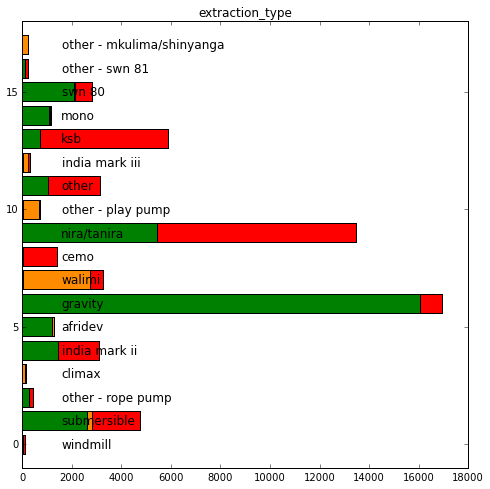
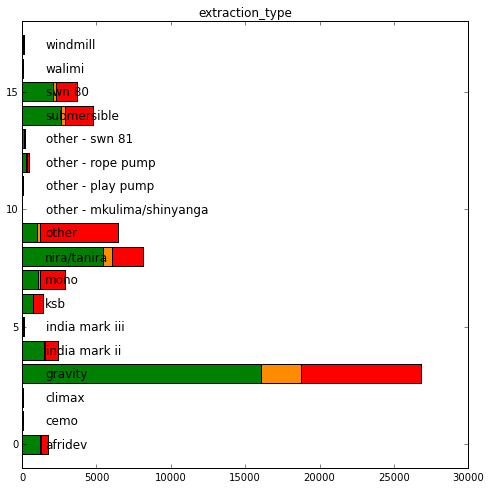
fixed serious bug in visualisation. Updated bar graphs to show the correct values.

diff --git a/Data Visualisation/ExploringData.py b/Data Visualisation/ExploringData.py
@@ -17,6 +17,8 @@ from operator import add
 TRAIN_X_PATH = "../../train/train_x.csv"
 TRAIN_Y_PATH = "../../train/train_y.csv"
 
+TRAIN_X_GROUPED_PATH = "../../train/train_grouped_named.csv"
+
 CATEGORICALS = ['funder','wpt_name','basin','subvillage','region','lga',
                   'ward','recorded_by','scheme_management','scheme_name',
                   'payment_type','payment','quality_group','management_group',
@@ -57,12 +59,18 @@ def plot_bar_stacked(train, column_name, size=(8.0,8.0)):
     """
     cpy = train.copy()
     # get a list of all the categories 
-    labels = train[column_name].cat.categories    
+    labels = train[column_name].cat.categories
+    
     # seperate the values in the column by their pumps' status and count the
     # frequency of the categories.
     func =      Counter(cpy[column_name][cpy.status_group=='functional'])
     non_func =  Counter(cpy[column_name][cpy.status_group=='non functional'])
     repair =    Counter(cpy[column_name][cpy.status_group=='functional needs repair'])
+    
+    func_values = [func[label] for label in labels]
+    non_func_values = [non_func[label] for label in labels]
+    repair_values = [repair[label] for label in labels] 
+    
     # explicitly set the counts of the categories not in a status group to 0
     # for the correct aligning of bars to work
     for label in labels:
@@ -73,13 +81,17 @@ def plot_bar_stacked(train, column_name, size=(8.0,8.0)):
         if repair[label] is 0:
             repair[label] = 0        
     # list of x-values used to correctly align the bars.
-    left_non_func = map(add, func.values(), repair.values()) 
+    left_non_func = map(add, func_values, repair_values)
+    
+    for label in labels:
+        print label, non_func[label] + func[label] + repair[label]
+    
     # plot the bars
-    pl.barh(np.arange(len(labels)), func.values(),\
+    pl.barh(np.arange(len(labels)), func_values,\
                         color = 'green', align='center')    
-    pl.barh(np.arange(len(labels)), repair.values(),\
-                        color = 'darkorange', align='center', left=func.values())
-    pl.barh(np.arange(len(labels)), non_func.values(),\
+    pl.barh(np.arange(len(labels)), repair_values,\
+                        color = 'darkorange', align='center', left=func_values)
+    pl.barh(np.arange(len(labels)), non_func_values,\
                         color = 'red', align='center', left=left_non_func)
     # set the plot's title                    
     ax = pl.gca()
@@ -87,9 +99,9 @@ def plot_bar_stacked(train, column_name, size=(8.0,8.0)):
         
     pl.ylim([-1,len(labels)])              
     # annotate the bars with their category names
-    text_x = max(func.values())/10    
-    for i in range(0,len(func)):
-        ax.annotate(func.keys()[i], (text_x,i), size='large', verticalalignment='center')
+    text_x = max(func_values)/10    
+    for i in range(0,len(func_values)):
+        ax.annotate(labels[i], (text_x,i), size='large', verticalalignment='center')
     
     fig = pl.figure(num=1)    
     fig.set_size_inches(size[0], size[1])    
